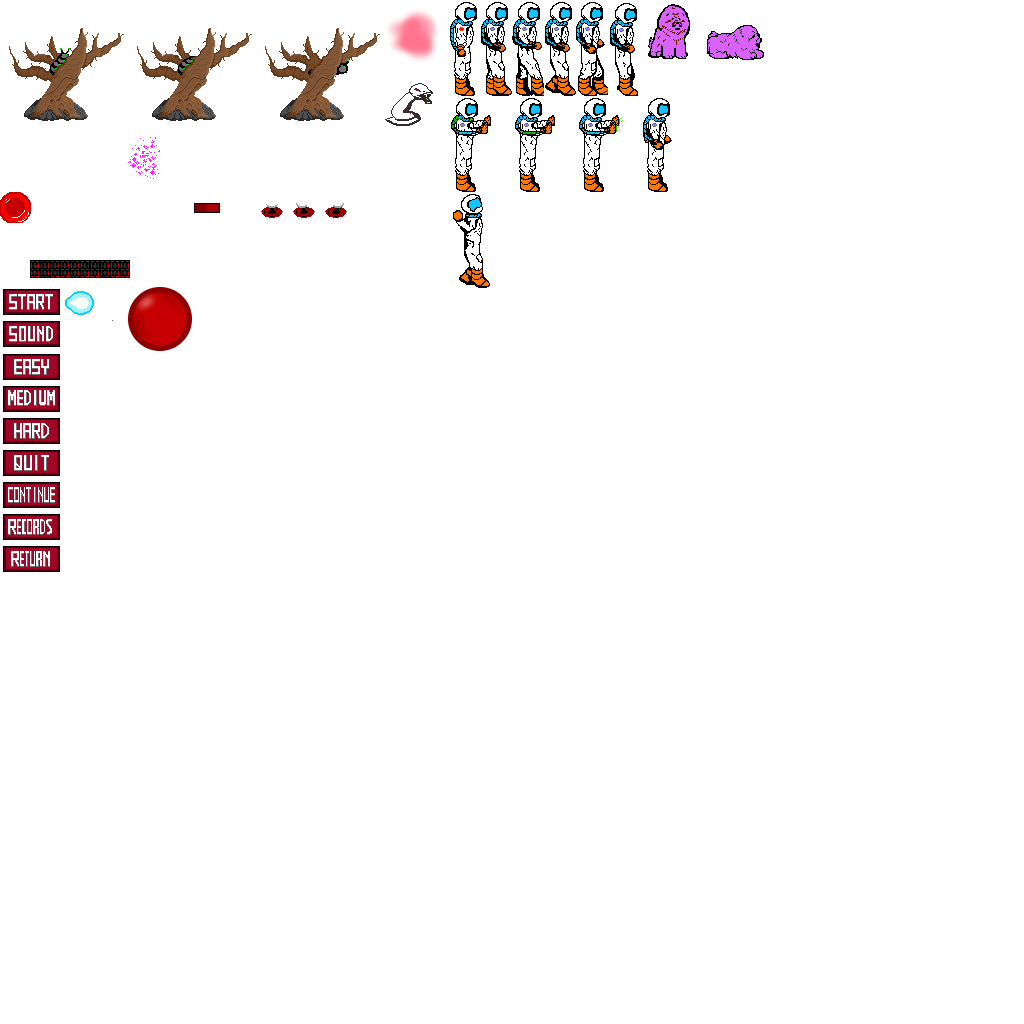
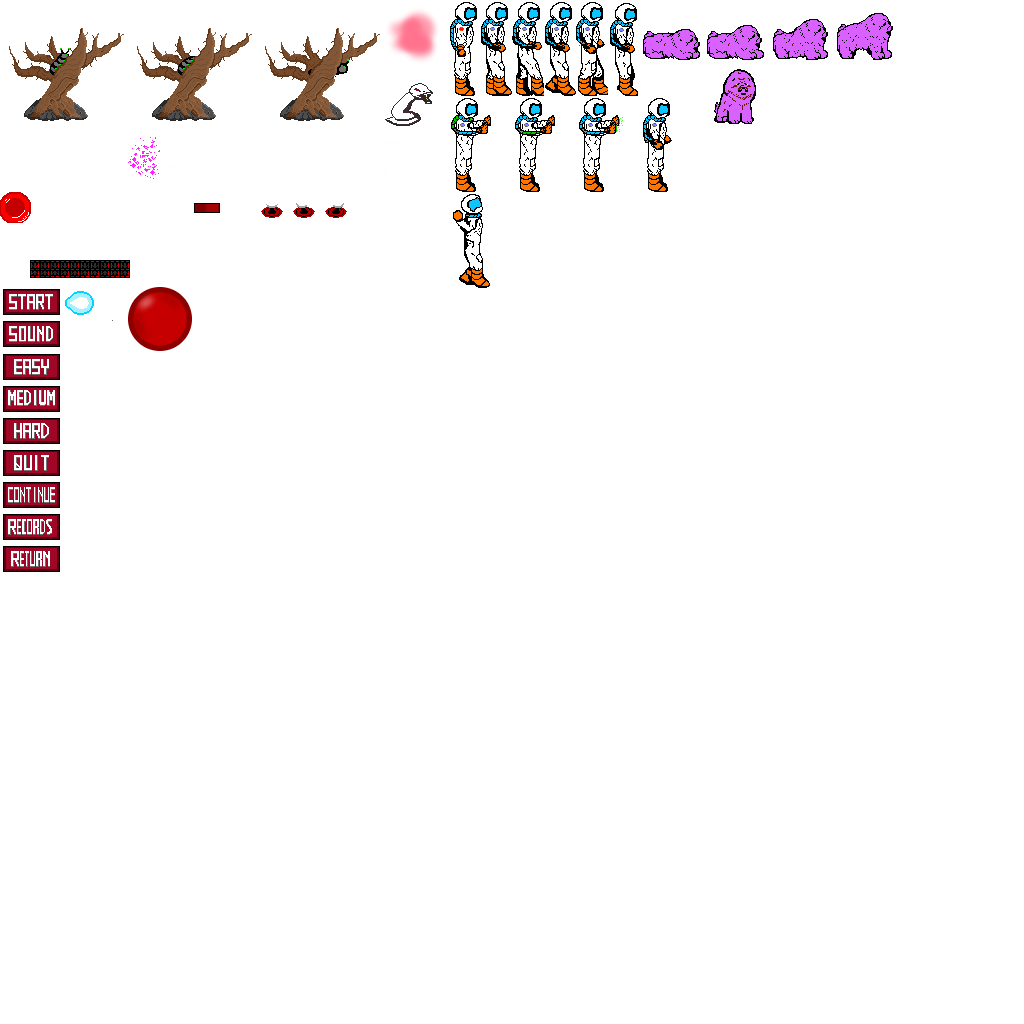
Se agregaron las animaciones de ChargingEnemy

Changed region(s): [[0.75, 0.0, 0.875, 0.0625], [0.6875, 0.0625, 0.75, 0.125], [0.625, 0.0, 0.6875, 0.0625]]

diff --git a/app/src/main/java/com/jgame/elements/ChargingEnemy.java b/app/src/main/java/com/jgame/elements/ChargingEnemy.java
@@ -60,23 +60,28 @@ public class ChargingEnemy extends GameCharacter {
 
     private final float PROJECTILE_OFFSET = 50;
     private final static Vector2 INITIAL_POSITION = new Vector2(425,0);
-    public final static TextureData IDLE_TEXTURE = TextureDrawer.generarTextureData(22,0,24,2,32);
+    public final static TextureData IDLE_TEXTURE = TextureDrawer.generarTextureData(20,0,22,2,32);
+    public final static TextureData ATTACK_TEXTURE = TextureDrawer.generarTextureData(26,0,28,2,32);
+    public final static TextureData[] STARTUP_TEXTURE = new TextureData[]{
+            IDLE_TEXTURE, TextureDrawer.generarTextureData(22,0,24,2,32),
+            TextureDrawer.generarTextureData(24,0,26,2,32), ATTACK_TEXTURE
+    };
     private final static Vector2 ATTACK_SPEED = new Vector2(5f, 0);
     private final static int IDLE_FRAMES = 120;
     private final static int CHARGE_FRAMES = 20;
     private State currentState;
     private int idleFrame;
-    private int chargeFrame;
     private final CollisionObject[] attackObject;
+    private final AnimationData attackStartup;
 
     public ChargingEnemy(float yPosition, int id){
         super(new Square(new Vector2(0, yPosition), 85,85,0), id);
         this.baseX.x = -1;
         currentState = State.IDLE;
         idleFrame = IDLE_FRAMES;
-        chargeFrame = CHARGE_FRAMES;
         attackObject = new CollisionObject[]{new CollisionObject(new Vector2(), 0, 50, 50, this, CollisionObject.TYPE_ATTACK),
         new CollisionObject(new Vector2(), 0, 50, 150, this, CollisionObject.TYPE_HITTABLE)};
+        attackStartup = new AnimationData(CHARGE_FRAMES, false, STARTUP_TEXTURE);
     }
 
     private void resetAttack(){
@@ -90,7 +95,6 @@ public class ChargingEnemy extends GameCharacter {
     public void reset(Vector2 positionOffset) {
         activeCollisionBoxes = idleCollisionBoxes;
         idleFrame = IDLE_FRAMES;
-        chargeFrame = CHARGE_FRAMES;
         currentState = State.IDLE;
         moveTo(positionOffset, INITIAL_POSITION);
         color.b = 0;
@@ -125,12 +129,13 @@ public class ChargingEnemy extends GameCharacter {
         if(currentState == State.IDLE){
             idleFrame -= 1;
             if(idleFrame <= 0) {
+                attackStartup.reset();
                 currentState = State.CHARGING;
                 color.b = 0.5f;
             }
         } else if(currentState == State.CHARGING){
-            chargeFrame -= 1;
-            if(chargeFrame == 0) {
+            attackStartup.updateFrame();
+            if(attackStartup.completed()) {
                 currentState = State.ATTACKING;
                 color.b = 1;
                 activeCollisionBoxes = attackObject;
@@ -144,7 +149,6 @@ public class ChargingEnemy extends GameCharacter {
             if(Event.HIT == detectCollision(foe, attackObject)){
                 activeCollisionBoxes = idleCollisionBoxes;
                 idleFrame = IDLE_FRAMES;
-                chargeFrame = CHARGE_FRAMES;
                 currentState = State.IDLE;
                 color.b = 0;
                 resetAttack();
@@ -157,7 +161,12 @@ public class ChargingEnemy extends GameCharacter {
 
     @Override
     public TextureData getCurrentTexture() {
-        return IDLE_TEXTURE;
+        if(currentState == State.CHARGING)
+            return attackStartup.getCurrentSprite();
+        else if(currentState == State.ATTACKING)
+            return ATTACK_TEXTURE;
+        else
+            return IDLE_TEXTURE;
     }
 
     @Override
